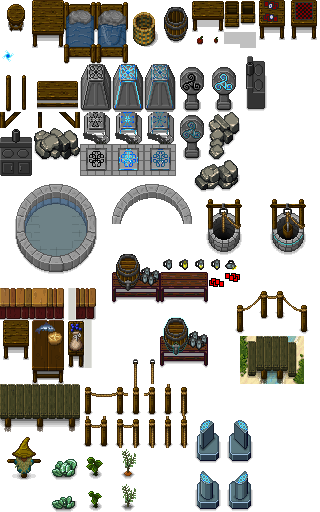
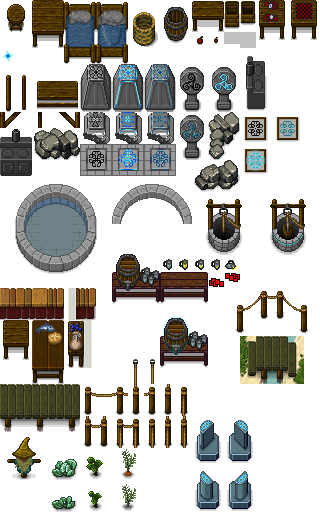
tinkerer sequence wip

Changed region(s): [[0.75, 0.2188, 0.9375, 0.3438]]

diff --git a/js/playState.js b/js/playState.js
@@ -36,6 +36,9 @@ import { UxNpcInfo } from "./uxNpcInfo.js";
 import { StoryDialogAction, StoryFadeInAction, StoryFadeOutAction, StoryHideAction, StoryShowAction, UxStory } from "./uxStory.js";
 import { UxTutorial } from "./uxTutorial.js";
 import { CreditsState } from "./creditsState.js";
+import { FinishGameAction } from "./actions/finish.js";
+import { Morale } from "./morale.js";
+import { Event } from "./base/event.js";
 
 class PlayState extends State {
     static startStoryTag = "startStory";
@@ -413,6 +416,8 @@ class PlayState extends State {
         this.fountainBase = this.findFirst(v=>v.tag === "sparkbase.fountain" && v.x === 504 && v.y === 456);
         this.exampleRelay = this.findFirst(v=>v.tag === "relay" && v.x === 632 && v.y === 504);
         this.gardenerSparkbase = this.findFirst(v=>v.tag === "rockRelay" && v.ownerTag === "Finn");
+        this.tinkerRune1 = this.findFirst(v=>v.tag === "sparkbase" && v.ownerTag === "Nessa");
+        this.tinkerRune2 = this.findFirst(v=>v.tag === "rune.wall" && v.ownerTag === "Nessa");
 
         // debug mode
         this.clickMode = "path";
@@ -466,7 +471,7 @@ class PlayState extends State {
             Config.dbg.Stats = !Config.dbg.Stats;
         }
         if (evt.key === "8") {
-            this.genStory(PlayState.endScript, PlayState.endStoryTag);
+            //this.genStory(PlayState.endScript, PlayState.endStoryTag);
             /*
             if (!this.vendorMoraleMax) {
                 this.eventQ.push(new Event("npc.moraleMax", {actor: this.vendor}));
@@ -481,11 +486,12 @@ class PlayState extends State {
                 this.gardener.morale.value = Morale.max;
                 this.gardenerMoraleMax = true;
             } else if (!this.tinkererMoraleMax) {
+                */
+            if (!this.tinkererMoraleMax) {
                 this.eventQ.push(new Event("npc.moraleMax", {actor: this.tinkerer}));
                 this.tinkerer.morale.value = Morale.max;
                 this.tinkererMoraleMax = true;
             }
-            */
         }
         if (evt.key === "9") {
             switch(this.clickMode) {
@@ -799,8 +805,7 @@ class PlayState extends State {
         if (this.currentStoryTag === PlayState.startStoryTag) {
             this.genTutorial();
         } else {
-            let state = new CreditsState();
-            Base.instance.stateMgr.push(state);
+            this.eventQ.push(new Event("game.credits"));
         }
     }
 
@@ -829,6 +834,7 @@ class PlayState extends State {
     updateGameEvents(ctx) {
         while (this.eventQ.length) {
             let evt = this.eventQ.shift();
+            console.log(`game event: ${Fmt.ofmt(evt)}`);
             let sfx;
             switch (evt.tag) {
                 case "npc.moraleMax":
@@ -877,7 +883,19 @@ class PlayState extends State {
                         this.gardener.introDone = true;
                         this.tinkerer.wantIntro = true;
                     } else if (evt.actor.tag === "nessa") {
-                        // FIXME
+                        this.actions.push(new PauseAction());
+                        this.actions.push(new PanToAction({target: this.tinkerRune1}));
+                        this.actions.push(new PlaySoundAction({sfx: this.pillarActivateSfx}));
+                        this.actions.push(new PowerUpAction({target: this.tinkerRune1}));
+                        this.actions.push(new PanToAction({target: this.tinkerRune2}));
+                        this.actions.push(new PlaySoundAction({sfx: this.pillarActivateSfx}));
+                        this.actions.push(new PowerUpAction({target: this.tinkerRune2}));
+                        this.actions.push(new WaitAction());
+                        this.actions.push(new PanToAction({target: this.tinkerer}));
+                        //this.actions.push(new WaitForDialog({xdialog: Object.assign({}, PlayState.tinkererSparkDialog, {actor: this.player, npc: this.tinkerer})}));
+                        this.actions.push(new PanToAction({target: this.player}));
+                        this.actions.push(new FinishGameAction());
+                        this.tinkerer.introDone = true;
                     }
 
                     break;
@@ -899,6 +917,13 @@ class PlayState extends State {
                     break;
                 case "npc.click":
                     this.genNpcInfo(evt.actor);
+                    break;
+                case "game.finish":
+                    this.genStory(PlayState.endScript, PlayState.endStoryTag);
+                    break;
+                case "game.credits":
+                    let state = new CreditsState();
+                    Base.instance.stateMgr.push(state);
                     break;
             }
 

diff --git a/js/worldGen.js b/js/worldGen.js
@@ -526,7 +526,7 @@ class WorldGen {
                     "0000","0000","0000","0000","0000","0000","000K","0000","0000","0000","0000","0000","0000","0000","0000","0000",
                     "0000","0000","0000","0000","0000","0000","0000","0000","0000","0000","0000","0000","0000","0000","0000","0000",
                     "0000","0000","0000","003d","0000","0000","0000","0000","0000","0000","0000","0000","0000","0000","000u","0000",
-                    "0000","0000","0000","0000","0000","0000","0000","0000","0000","0000","0000","0000","0000","0000","0000","0000",
+                    "0000","0000","0000","0000","0000","0o00","0000","0000","0000","0000","0000","0000","0000","0000","0000","0000",
                     "0000","0000","0000","0000","0000","000o","003e","0000","0000","0000","0000","0000","0000","0000","0000","0000",
                 ],
             },
@@ -1755,7 +1755,7 @@ class WorldGen {
                     "0000","0000","0000","0rle","0rlf","0rlo","0rlr","0rrl","0rrk","0rri","0rrd","0000","0000","0000","0000","0000",
                     "0000","0000","0000","0rle","0rlo","0rlr","0000","0000","0rrl","0rrk","0rrd","0000","0000","0000","0000","0000",
                     "0000","0000","0000","0rlq","0rlr","0000","0000","0000","0000","0rrl","0rrm","0000","0000","0000","0000","0000",
-                    "0000","0000","0000","0000","0000","0000","0000","0000","0000","0000","0000","0000","0000","0000","0000","0000",
+                    "0000","0000","0000","0000","0000","0000","0o0B","0000","0000","0000","0000","0000","0000","0000","0000","0000",
                     "0000","0000","0000","0000","0000","0000","0000","0000","0000","0000","0000","0000","0000","0000","0000","0000",
                     "0000","0000","0000","0000","0000","0000","0000","0000","0000","0000","0000","0000","0000","0000","0000","0000",
                     "0000","0000","0000","0000","0000","0000","0000","0000","0000","0000","0000","0000","0000","0000","0000","0000",

diff --git a/js/sparkAssets.js b/js/sparkAssets.js
@@ -558,6 +558,9 @@ class SparkAssets {
                 Templates.xsprite("bridge",             15, 21, { width: 16*4, height: 16*3 }),
                 Templates.xsprite("table.cards",        16, 0, { width: 16*2, height: 16*3 }),
                 Templates.xsprite("table.checkers",     18, 0, { width: 16*2, height: 16*3 }),
+                Templates.xsprite("rune.wall.idle",     15, 7, { width: 16*2, height: 16*2 }),
+                Templates.xsprite("rune.wall.powered",  17, 7, { width: 16*2, height: 16*2 }),
+                Templates.xsprite("rune.wall.sparked",  15, 9, { width: 16*2, height: 16*2 }),
             ]},
 
             { tag: "well", 
@@ -576,6 +579,15 @@ class SparkAssets {
                     [ModelState.idle_northWest]: { cls: "Media", tag: "bouncer.nw" }, 
                     [ModelState.idle_southEast]: { cls: "Media", tag: "bouncer.se" }, 
                     [ModelState.idle_southWest]: { cls: "Media", tag: "bouncer.sw" }, 
+                },
+            },
+
+            { tag: "rune.wall", 
+                cls: "Animator", 
+                animations: { 
+                    [ModelState.idle]: { cls: "Media", tag: "rune.wall.idle" }, 
+                    [ModelState.powered]: { cls: "Media", tag: "rune.wall.powered" }, 
+                    [ModelState.sparked]: { cls: "Media", tag: "rune.wall.sparked" }, 
                 },
             },
 
@@ -1691,6 +1703,12 @@ class SparkAssets {
                     {x: -16, y: -32 },
                 ],
                 xcollider: { width: 16, height: 32, offy: 8 },
+            }),
+
+            Templates.object("o0B", "rune.wall", "SparkBase", { 
+                powered: false,
+                range: 16*8,
+                offx: 8, offy: -8, 
             }),
 
             // @@@ ------------------------------------------------------------------------------

diff --git a/js/worldOverrides.js b/js/worldOverrides.js
@@ -230,6 +230,29 @@ class WorldOverrides {
                 },
             },
 
+            // Nessa (tinkerer) things
+            // -- RUNES
+            {
+                predicate: (v) => v.x === this.wpos(WorldGen.lvl02.offx + 5) && 
+                                v.y === this.wpos(WorldGen.lvl02.offy + 14) &&
+                                v.cls === "SparkBase",
+                spec: {
+                    ownerTag: "Nessa",
+                    powered: false,
+                    range: Config.tileSize * 8,
+                },
+            },
+            {
+                predicate: (v) => v.x === this.wpos(WorldGen.pier.offx + 6) && 
+                                v.y === this.wpos(WorldGen.pier.offy + 7) &&
+                                v.cls === "SparkBase",
+                spec: {
+                    ownerTag: "Nessa",
+                    powered: false,
+                    range: Config.tileSize * 8,
+                },
+            },
+
             // ocean collider overrides
             {
                 predicate: (v) => v.x === this.wpos(WorldGen.lvl12.offx + 14) && v.y === this.wpos(WorldGen.lvl12.offy + 9) && v.tag.startsWith("ocean"),

diff --git a/js/actions/finish.js b/js/actions/finish.js
@@ -1,0 +1,22 @@
+export { FinishGameAction };
+
+import { Action }               from "../base/action.js";
+import { Atts }                 from "../base/atts.js";
+import { Event }                 from "../base/event.js";
+
+class FinishGameAction extends Action {
+
+    constructor(spec={}) {
+        super(spec);
+        this.eventQ = spec.eventQ || Atts.gameEventQ;
+    }
+
+    start(actor) {
+        this.eventQ.push(new Event("game.finish"));
+    }
+
+    update(ctx) {
+        this.done = true;
+        return true;
+    }
+}

diff --git a/js/actions/closeAtStation.js b/js/actions/closeAtStation.js
@@ -89,7 +89,7 @@ class CloseAction extends Action {
         this.ttl -= ctx.deltaTime;
         if (this.ttl <= 0) {
             this.done = true;
-            console.log(`removing open condition from: ${this.target}`);
+            //console.log(`removing open condition from: ${this.target}`);
             this.target.conditions.delete(Condition.opened);
             // remove close condition from target
             this.target.conditions.add(this.target.closedCondition);

diff --git a/js/actions/openAtStation.js b/js/actions/openAtStation.js
@@ -85,7 +85,7 @@ class OpenAction extends Action {
         //console.log(`open action actor: ${actor} target: ${this.target}}`);
         this.actor = actor;
         // actor applies sweeping condition
-        console.log(`added open condition to ${this.target}`)
+        //console.log(`added open condition to ${this.target}`)
         this.target.conditions.add(Condition.opened);
     }
 
